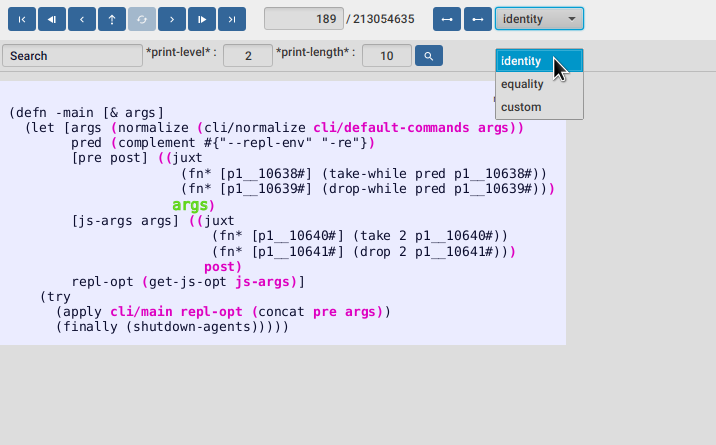
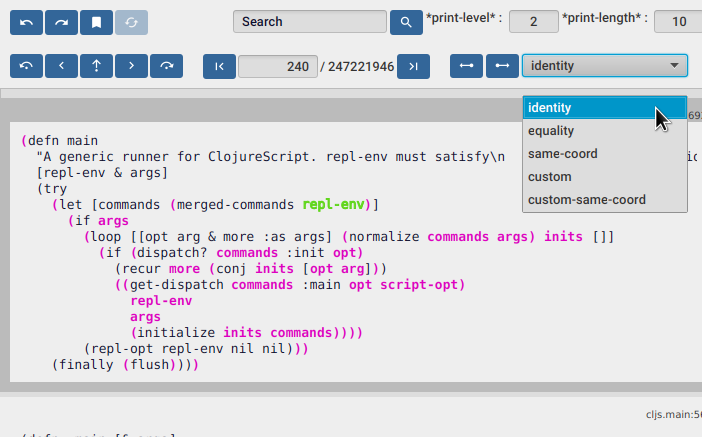
Add exceptions and update power-stepping screenshot

Changed region(s): [[0.0, 0.0, 1.0, 0.9817], [0.9274, 0.0, 1.0, 0.0595], [0.9573, 0.357, 1.0, 0.3867]]

diff --git a/index.html b/index.html
@@ -328,6 +328,24 @@
             </div>
 
             <div class="row">
+              <div class="container center-line feature">
+                <div class="row">
+                  <div class="feature-desc col-sm-7 order-sm-1">
+                    <h2>Understand your systems <a href="https://flow-storm.github.io/flow-storm-debugger/user_guide.html#_exceptions_debugging">exceptions</a></h2>
+                    <p>
+                      Explore and jump to any exceptions throwed during the execution of your programs with a single click.
+                    </p>
+                  </div>
+                  <div class="col-sm-5 order-sm-2">
+                    <a href="https://flow-storm.github.io/flow-storm-debugger/user_guide.html#_exceptions_debugging">
+                      <img class="img-fluid" alt="" src="/imgs/exceptions.png"/>
+                      </a>
+                  </div>            
+                </div>
+              </div>
+            </div>
+            
+            <div class="row">
               <div class="container center-line feature all-features">
                 <div class="row">
                   <div class="col-sm-12 feature-desc">
